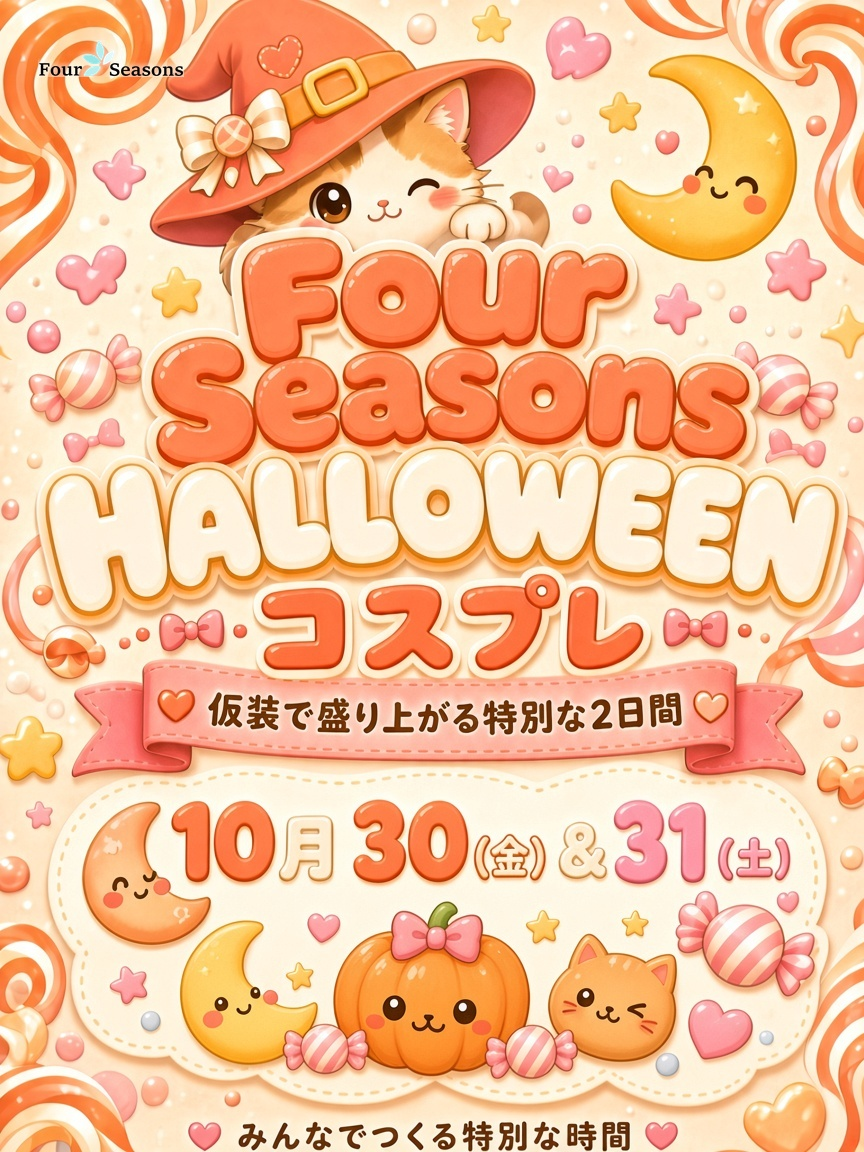
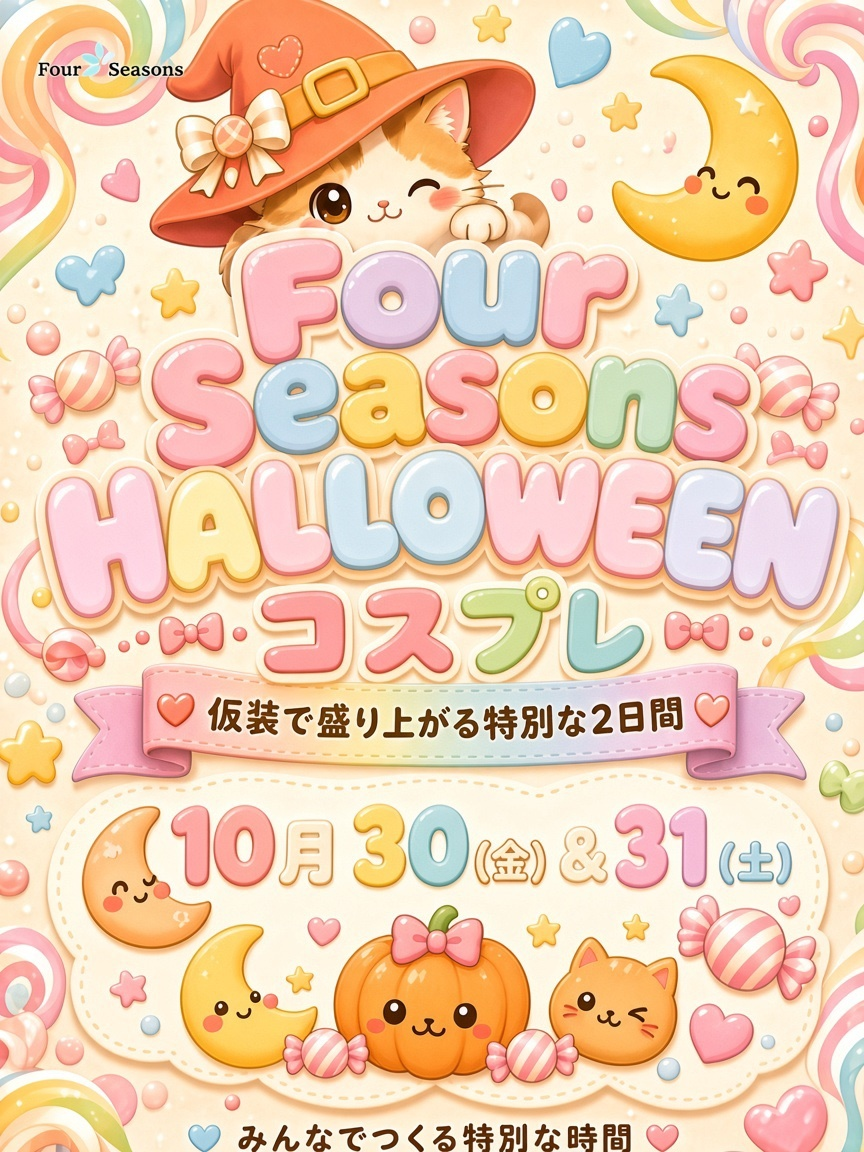
Export Four Seasons Halloween flyer for Instagram and A4
Finalize rainbow design as master and write out 1080x1350
feed size plus 2480x3508 (300dpi) A4 print size.

diff --git a/flyer/README.md b/flyer/README.md
@@ -7,17 +7,22 @@
 - **文言**: 仮装で盛り上がる特別な2日間
 - **日程**: 10月 30(金)・31(土)
 - **フッター**: みんなでつくる特別な時間
+- **配色**: レインボー（決定稿）
 
-## 完成版
+## 完成版（2サイズ）
 
-- `halloween-four-seasons-flyer.jpg` — 採用中の完成フライヤー（オレンジベース）
-- `four-seasons-logo.png` — 店ロゴ（白透過）
+| ファイル | 用途 | サイズ |
+|---|---|---|
+| `halloween-four-seasons-instagram.jpg` | Instagram投稿（スマホ） | **1080 × 1350**（4:5） |
+| `halloween-four-seasons-a4.jpg` | A4印刷 | **2480 × 3508**（210×297mm / 300dpi） |
+| `halloween-four-seasons-flyer.jpg` | マスター原寸 | 864 × 1152（3:4） |
+| `four-seasons-logo.png` | 店ロゴ（白透過） | — |
 
 ## サンプル
 
 | フォルダ / ファイル | 用途 |
 |---|---|
-| `samples-color/` | **配色バリエーション 15点** |
+| `samples-color/` | 配色バリエーション 15点 |
 | `gallery-color.html` | 配色一覧 |
 | `samples-cute/` | かわいい系 20点 |
 | `gallery-cute.html` | かわいい系一覧 |
@@ -26,5 +31,5 @@
 
 ## 使い方
 
-1. 配色は `gallery-color.html` で比較
-2. 気に入った色番号を指定 → 完成版へ反映
+1. Instagram: `halloween-four-seasons-instagram.jpg` を投稿
+2. 印刷: `halloween-four-seasons-a4.jpg` を A4・フチなし推奨
